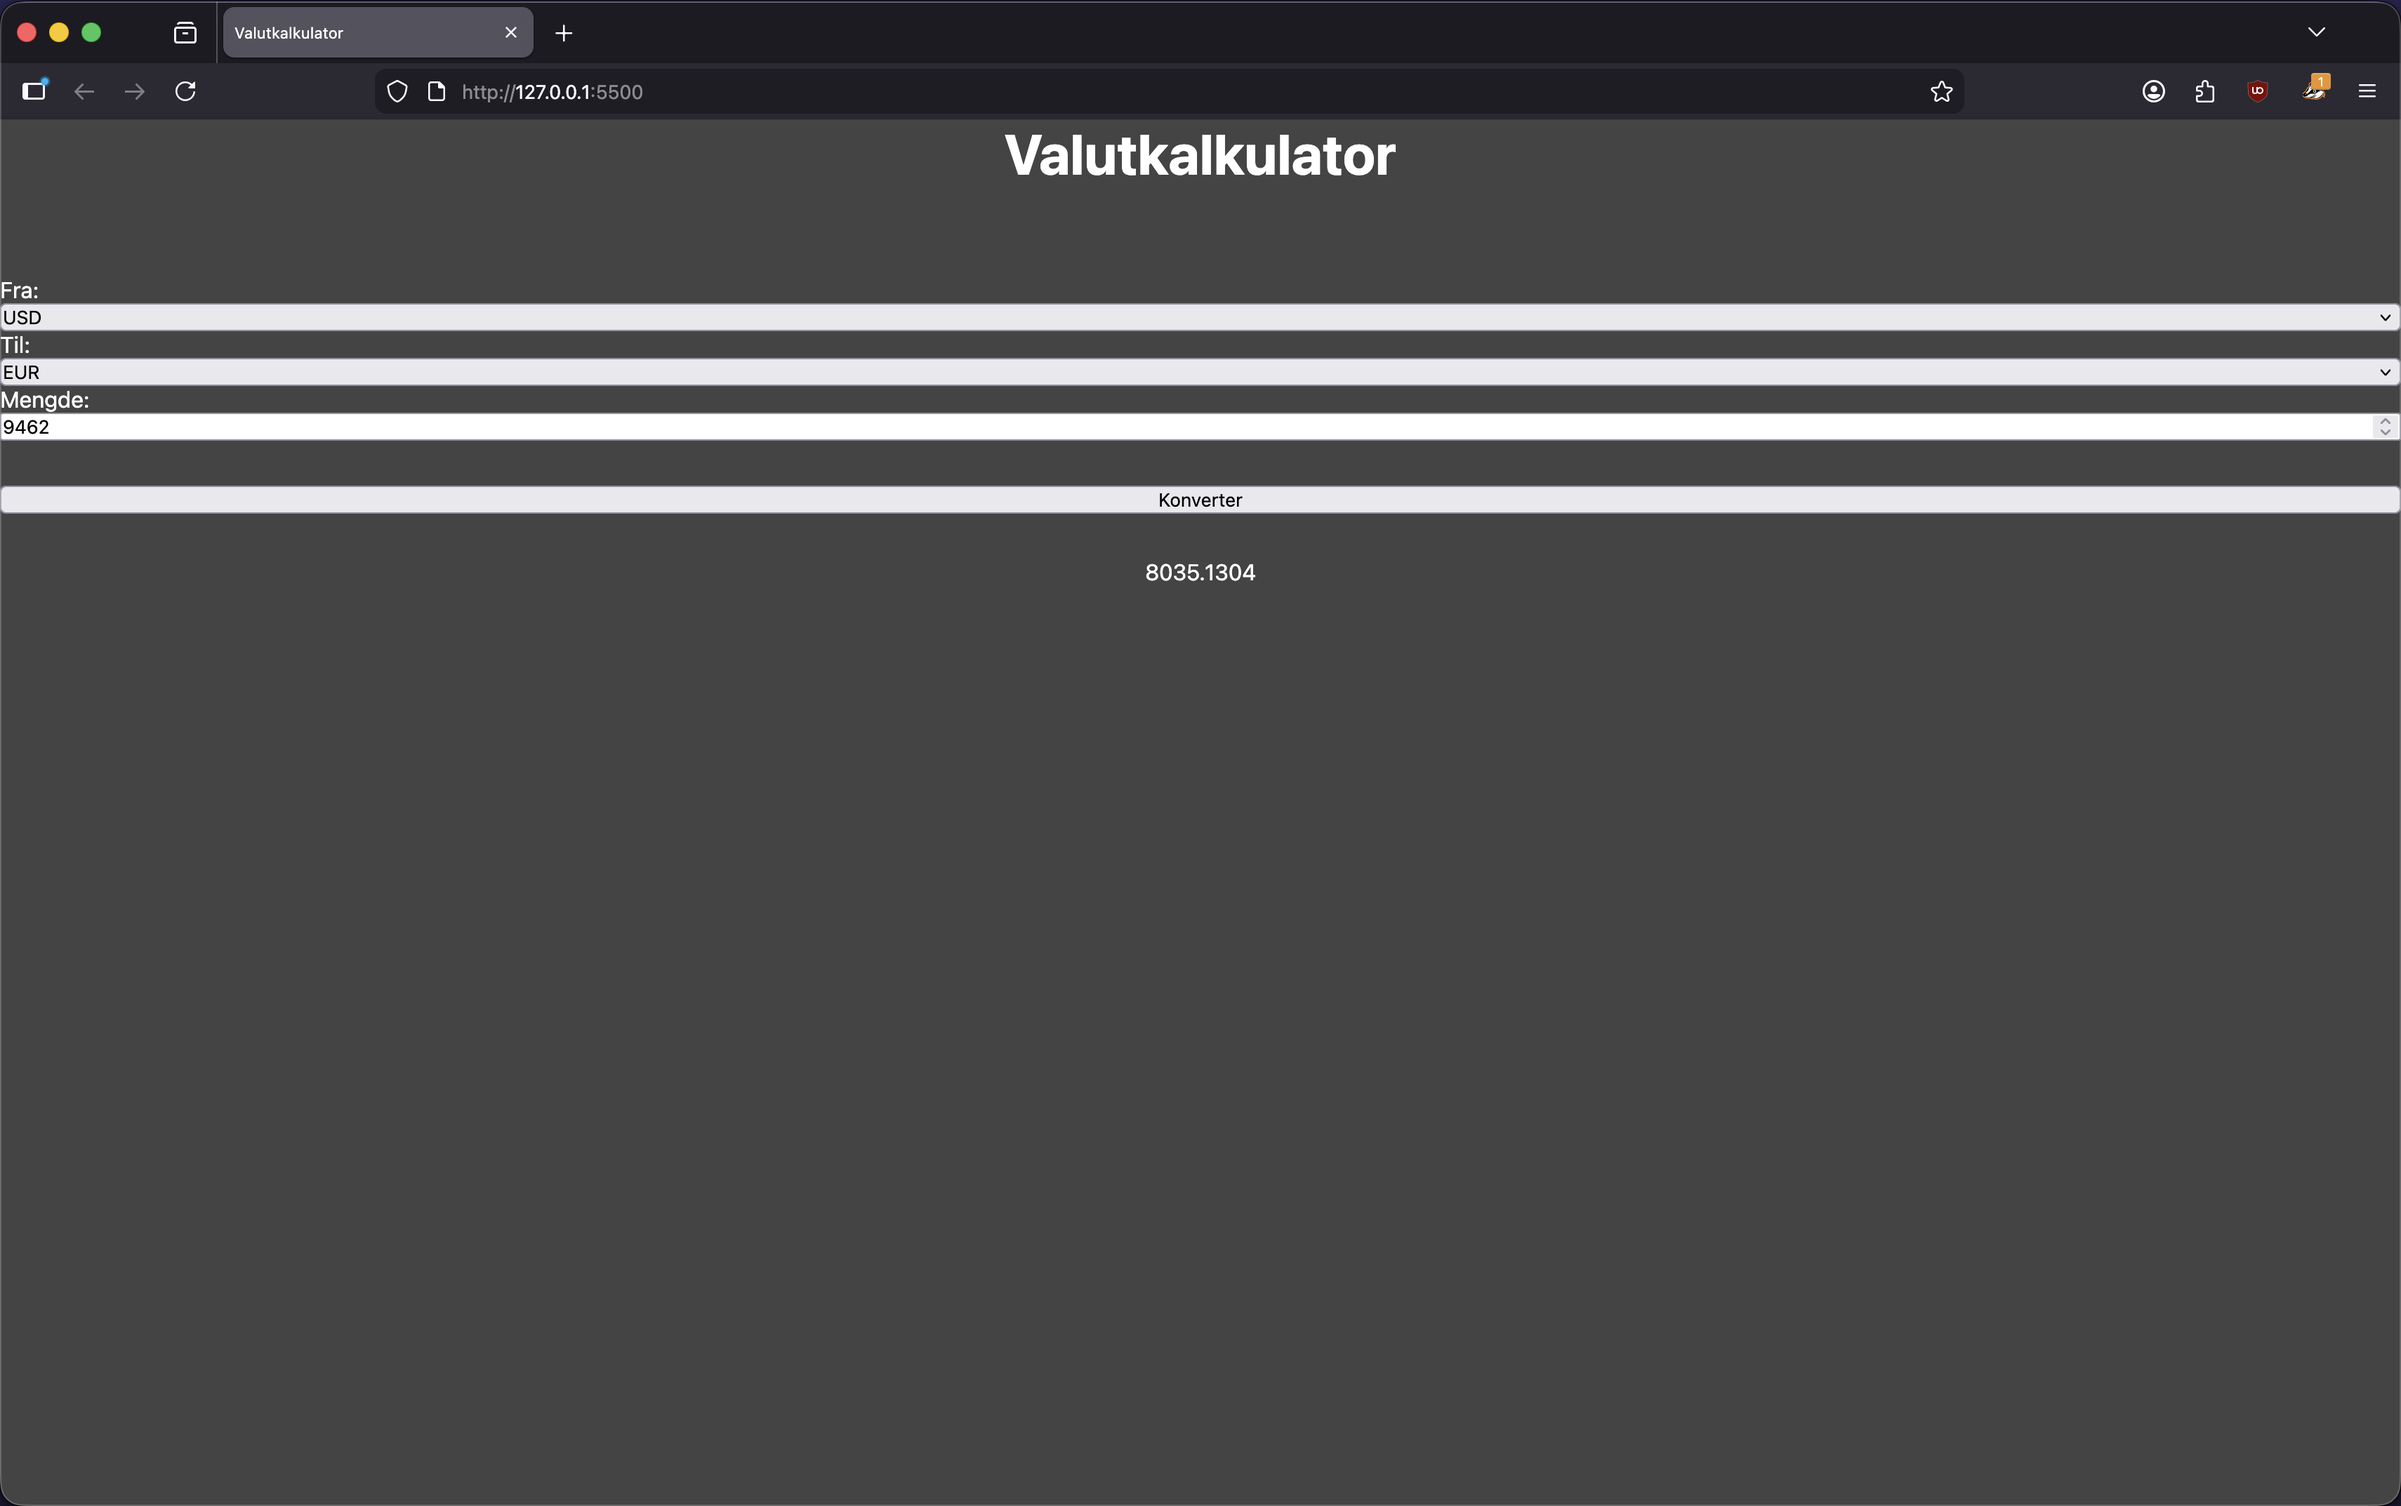
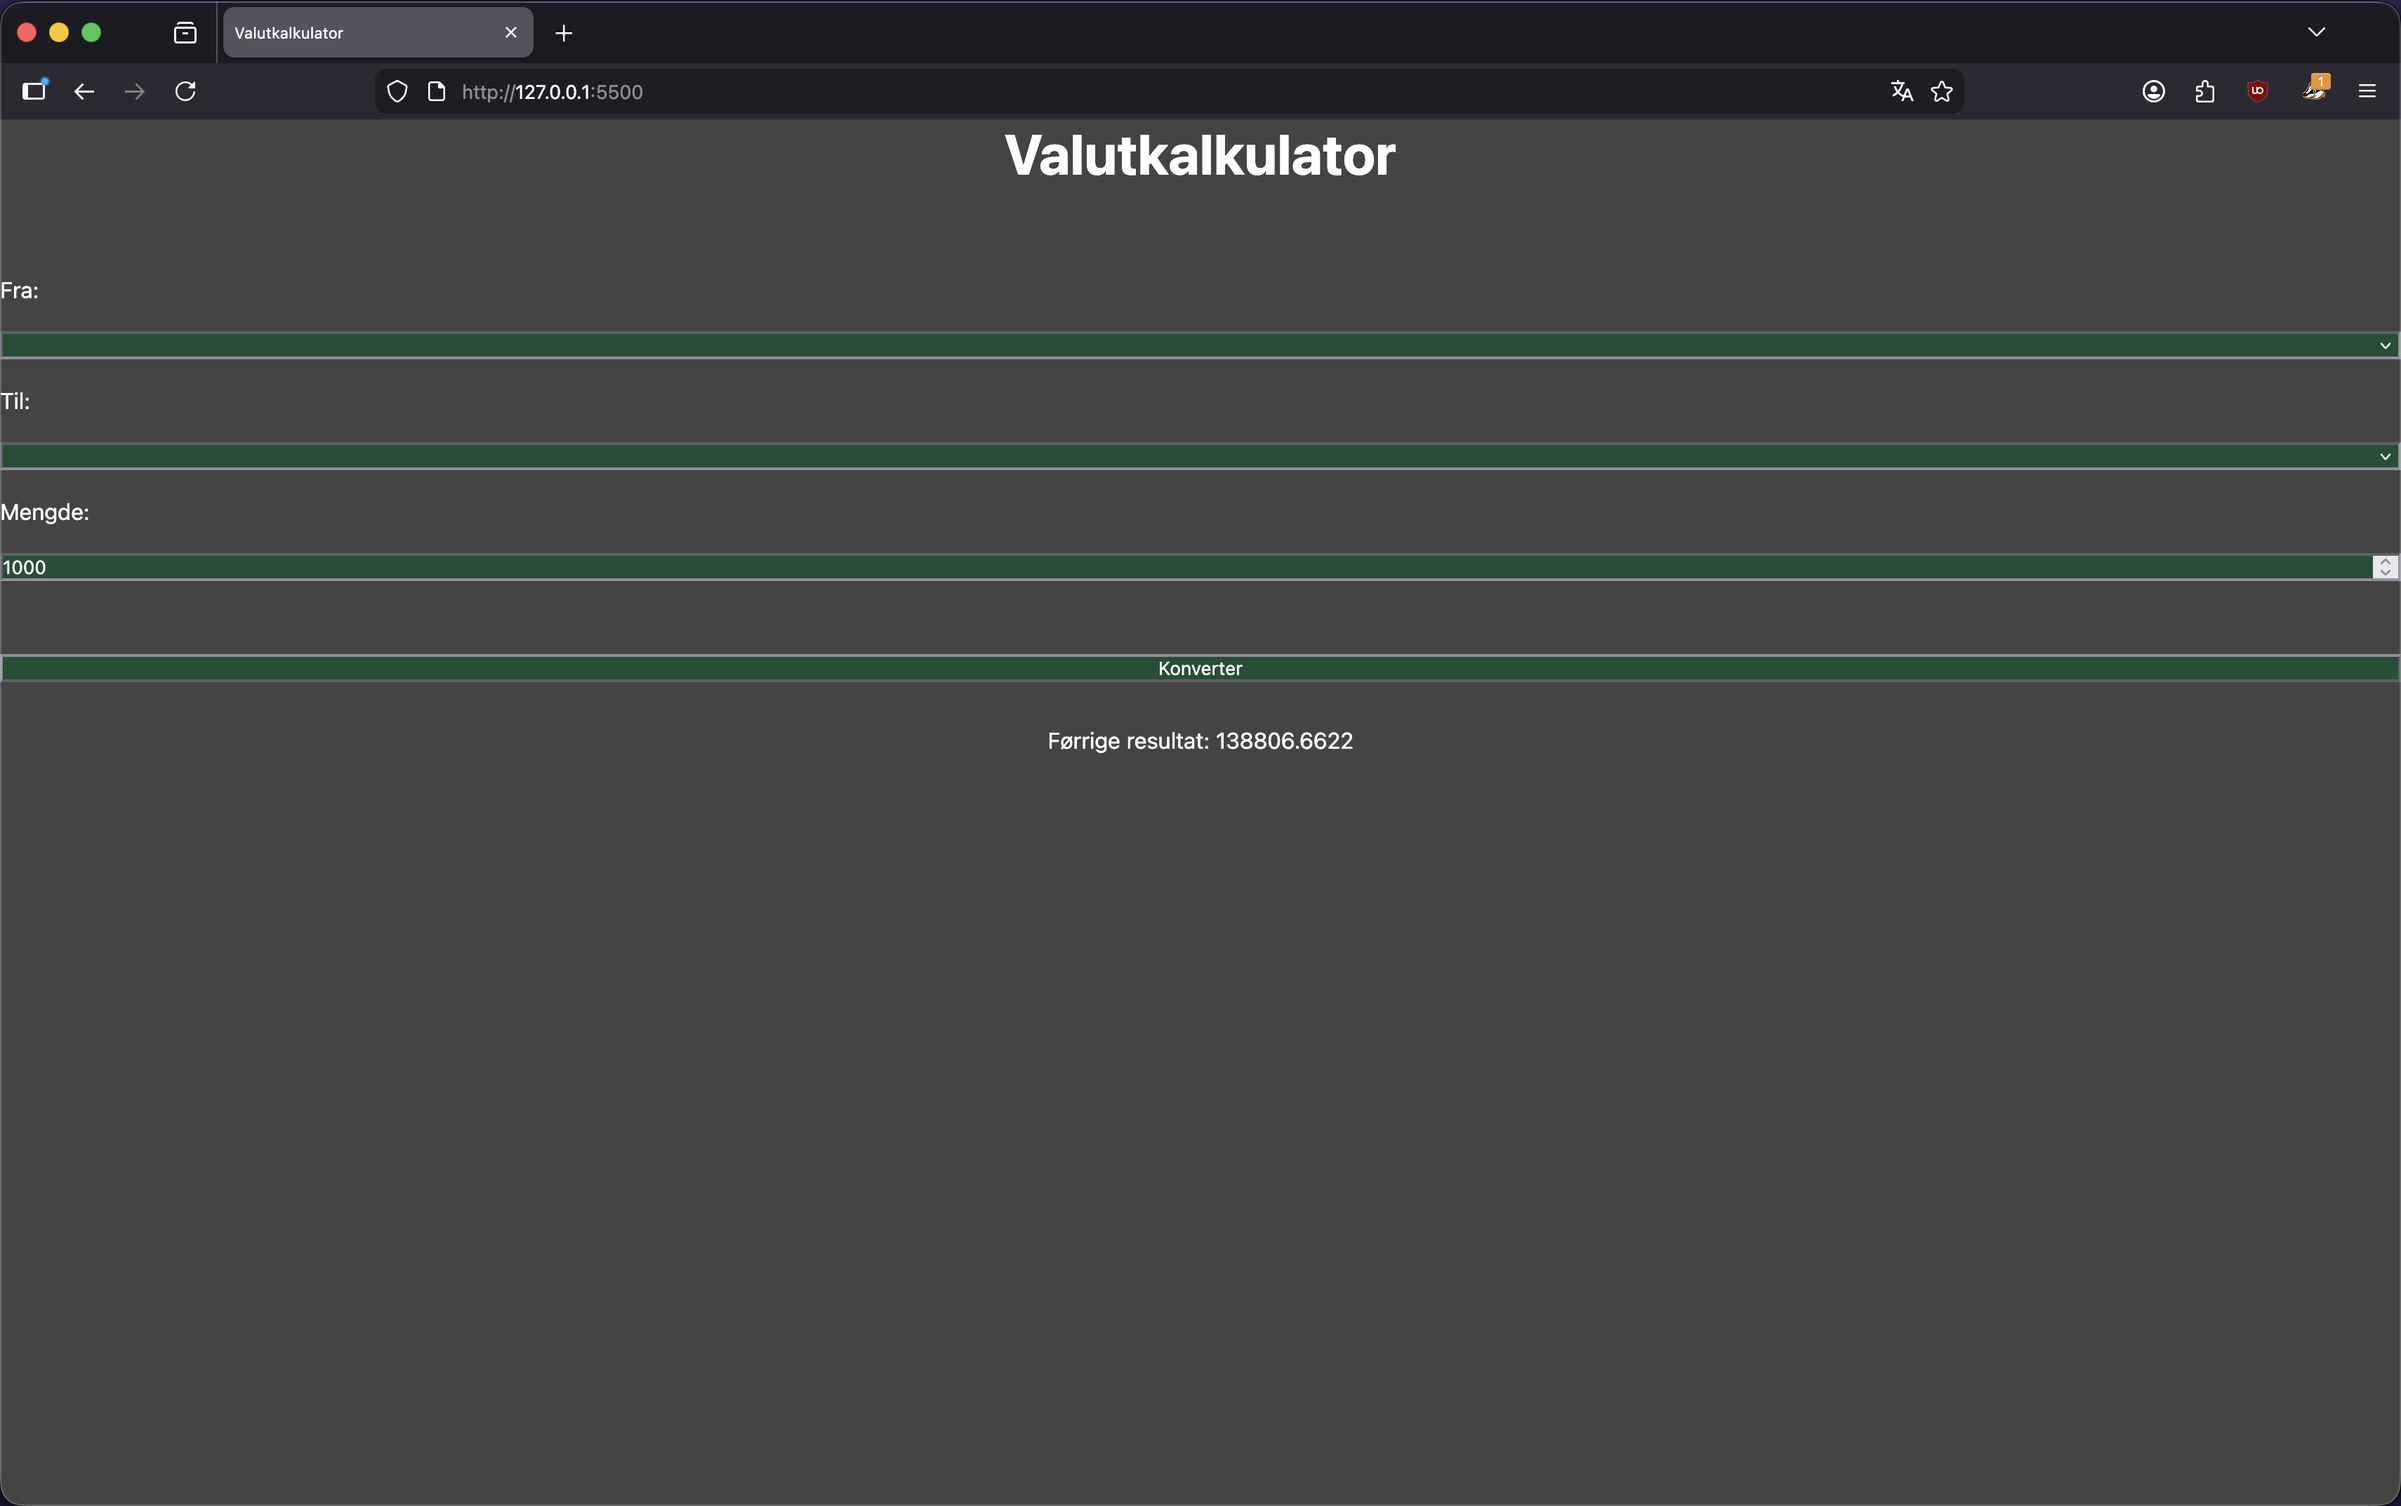
Laging, bruk av accent, og andre
Ladge ny README seksjoner - mer informasjon
Ladge options i fetch - metoden er bare GET

UI bruker accent nå og det er WCAG kontrast
vennlig

Feil rett for resultatet - eksludererte
`result.value` fra `localStorage`

Andre
Ladge .nojekyll - jekyll brukes ikke
Oppdaterte demo bilden - utdatert
CSS "one liners" - litt mer lesbart
CSS kommentert ubrukt

Changed region(s): [[0.0, 0.1873, 1.0, 0.4059], [0.0, 0.4371, 1.0, 0.4995]]

diff --git a/script.js b/script.js
@@ -2,7 +2,7 @@ document.addEventListener('DOMContentLoaded', () => {
     const storage_key = "Previous conversion result";
     const convert_curr = async (base, target, amount) => {
         const EXCHANGE_RATE_API_KEY = "c3bebc3cf92257a19192d324";
-        const res = await fetch(`https://v6.exchangerate-api.com/v6/${EXCHANGE_RATE_API_KEY}/pair/${base}/${target}/${amount}`);
+        const res = await fetch(`https://v6.exchangerate-api.com/v6/${EXCHANGE_RATE_API_KEY}/pair/${base}/${target}/${amount}`, { method: 'GET' });
         if (!res.ok) {
             throw new Error("Bad API response!");
         }
@@ -28,7 +28,7 @@ document.addEventListener('DOMContentLoaded', () => {
                     // console.log(target);
                     // console.log(target.value);
                     localStorage.removeItem(storage_key);
-                    localStorage.setItem(storage_key, result.value);
+                    localStorage.setItem(storage_key, result.value.replaceAll("Resultat: ", ""));
                 }
                 catch (err) {
                     throw new Error(`Can't convert! ${err}`);

diff --git a/script.ts b/script.ts
@@ -3,7 +3,9 @@ document.addEventListener('DOMContentLoaded', () => {
 
     const convert_curr = async(base: string, target: string, amount: number): Promise<number> => {
         const EXCHANGE_RATE_API_KEY: string = "c3bebc3cf92257a19192d324";
-        const res: Response = await fetch(`https://v6.exchangerate-api.com/v6/${EXCHANGE_RATE_API_KEY}/pair/${base}/${target}/${amount}`);
+        const res: Response = await fetch(`https://v6.exchangerate-api.com/v6/${EXCHANGE_RATE_API_KEY}/pair/${base}/${target}/${amount}`,
+            {method: 'GET'}
+        );
 
         if (!res.ok) {
             throw new Error("Bad API response!");
@@ -40,7 +42,7 @@ document.addEventListener('DOMContentLoaded', () => {
                     // console.log(target.value);
 
                     localStorage.removeItem(storage_key);
-                    localStorage.setItem(storage_key, result.value);
+                    localStorage.setItem(storage_key, result.value.replaceAll("Resultat: ", ""));
                 } catch (err) {
                     throw new Error(`Can't convert! ${err}`);
                 }

diff --git a/style.css b/style.css
@@ -1,5 +1,5 @@
 :root {
-    /* --accent: ; */
+    --accent: #b1ffd7;
     --bg: #fff;
     --fg: #444
 }
@@ -35,30 +35,35 @@ header h1 {
     font-size: 40px;
     margin-bottom: 4rem
 }
-h2 {
-    font-size: 32px
-}
-h3 {
-    font-size: 24px
-}
-.spaced-top-bottom {
-    margin: 2rem 0
-}
-.spaced-top {
-    margin-top: 2rem
-}
-form {
+/* h2 {font-size: 32px}
+h3 {font-size: 24px} */
+.spaced-top-bottom {margin: 2rem 0}
+.spaced-top {margin-top: 2rem}
+main form {
     display: flex;
     flex-direction: column;
     gap: 1.25rem
 }
+main input,
+main select {
+    background-color: var(--accent)
+}
+main input,
+main select {
+    color: var(--fg)
+}
+main button[type="submit"] {
+    background-color: var(--accent);
+    color: var(--fg);
+    cursor: pointer
+}
 header,
-.results {
+main .results {
     text-align: center
 }
 @media (prefers-color-scheme: dark) {
     :root {
-        /* --accent: ; */
+        --accent: #1a4f34;
         --bg: #444;
         --fg: #fff
     }

diff --git a/index.html b/index.html
@@ -51,8 +51,10 @@
             <button class="spaced-top" type="submit">Konverter</button>
         </form>
 
-        <div class="spaced-top">{{ result }}</div>
-        <div class="spaced-top">{{ previous_result }}</div>
+        <div class="results">
+            <div class="spaced-top">{{ result }}</div>
+            <div class="spaced-top-bottom">{{ previous_result }}</div>
+        </div>
     </main>
 
     <script src="script.js" defer></script>

diff --git a/README.md b/README.md
@@ -5,5 +5,11 @@
 npm install
 ```
 
+## CDN
+Prosjektet bruker Vue.js (CDN bruk)
+
+> [!NOTE]
+> Appen er ikke sikker - API nøkkelen er synlig
+
 ## Demo
 ![Showing conversion result](demo.png)
